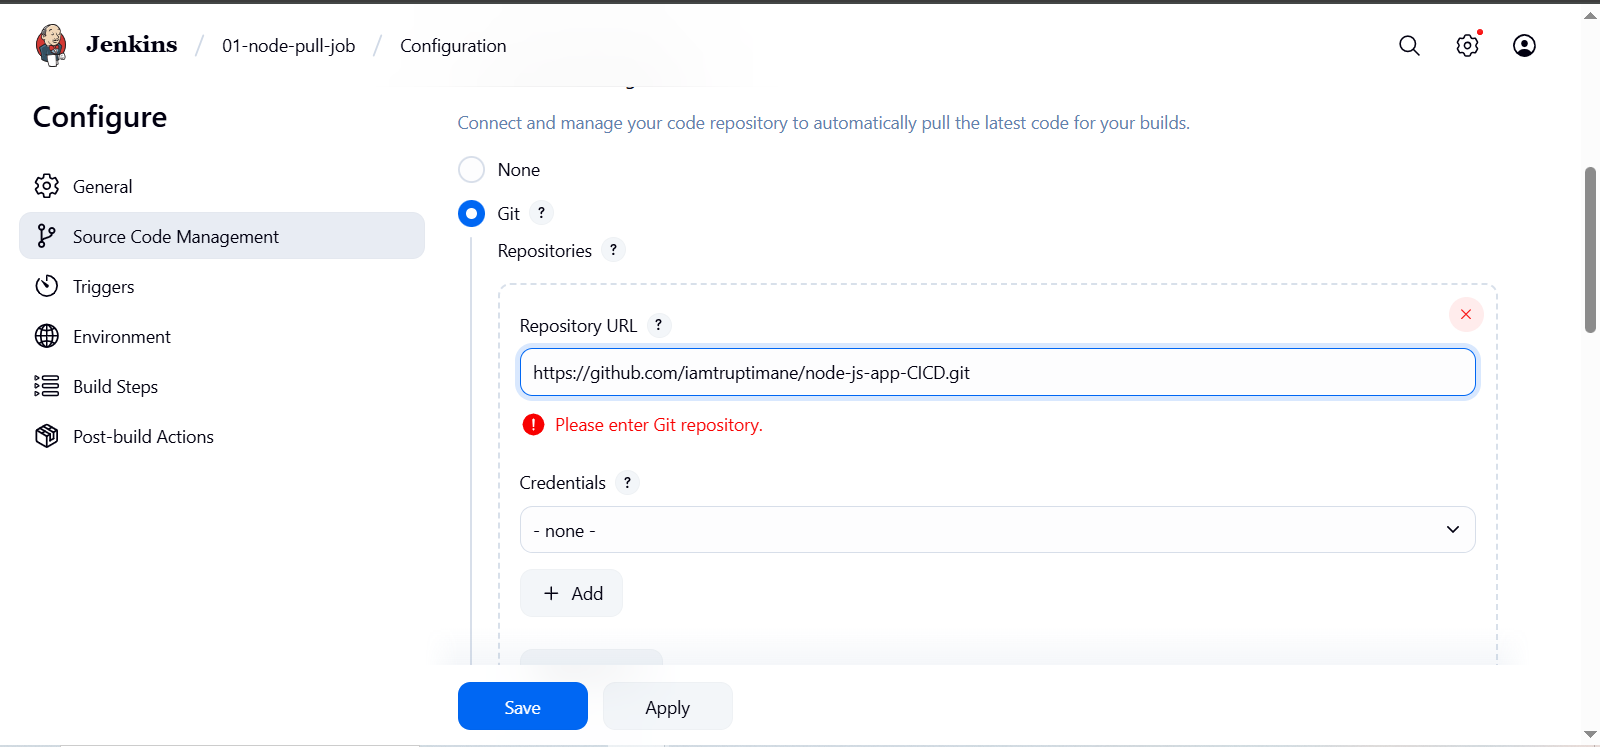
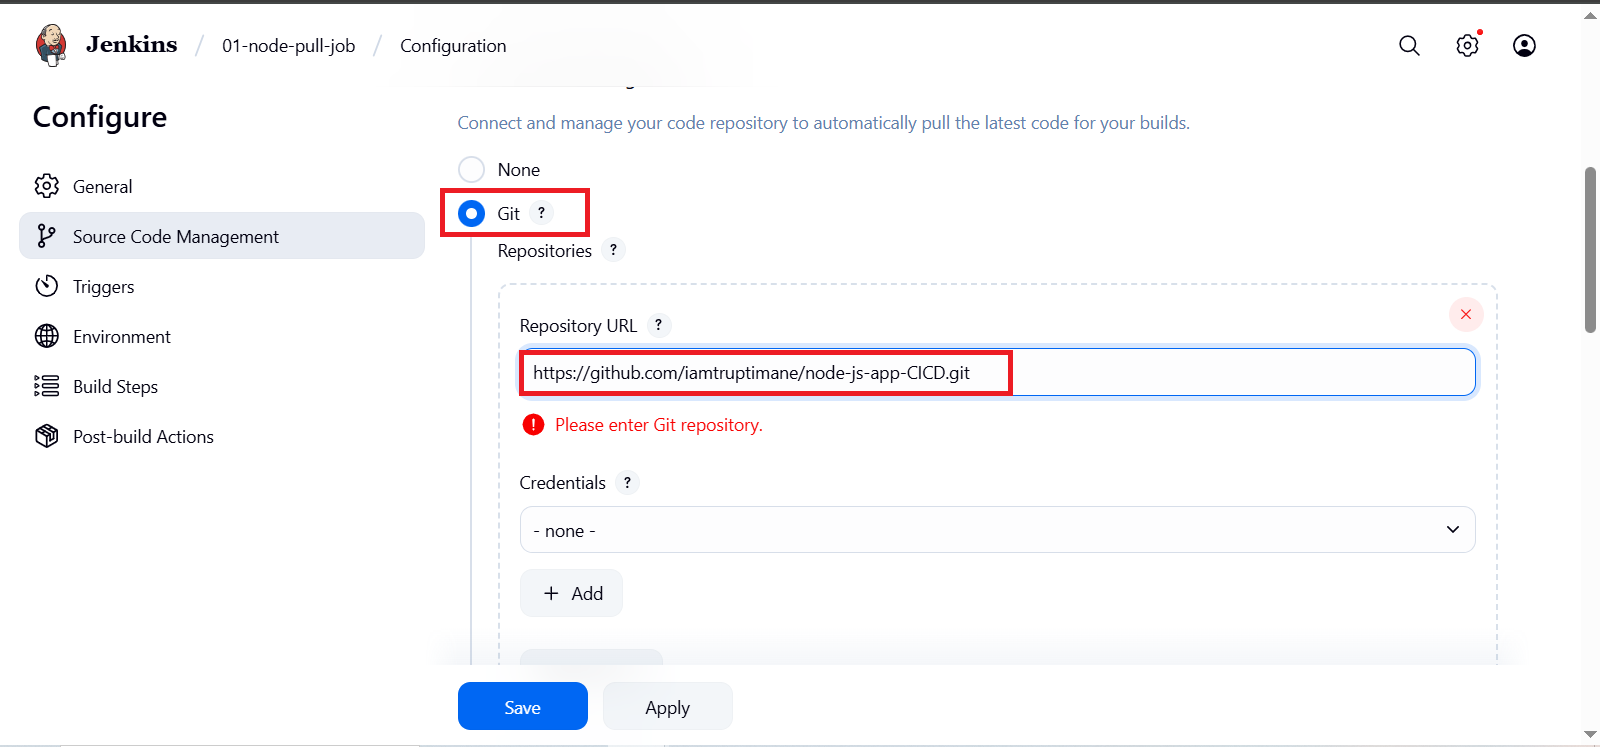
added

diff --git a/README.md b/README.md
@@ -56,7 +56,57 @@ sudo npm install -g pm2
 Verify PM2 installation:
 ```
 pm2 -v
+
 ```
+---
+
+### Setting Up Jenkins Freestyle Projects
+We will create three Jenkins freestyle jobs to automate the deployment pipeline:
+
+01-node-pull-job: Pull latest source code from Git.
+
+02-node-install-job: Install Node.js dependencies (npm install).
+
+![ubuntu](imgs/02-node-install-job-new-item-6.png)
+
+03-node-deploy-job: Deploy/start the Node.js application using PM2.
+
+![ubuntu](imgs/03-node-deploy-job-10.png)
+Project 1: 01-node-pull-job
+
+---
+### Open Jenkins web interface.
+
+Click New Item.
+
+Enter name: 01-node-pull-job.
+
+Choose Freestyle project, click OK.
+
+![ubuntu](imgs/node-pull-job-1.png)
+
+Scroll to Source Code Management, select Git.
+
+![ubuntu](imgs/select-git-repo-2.png)
+
+![ubuntu](imgs/branch-main-3.png)
+
+Enter your Git repository URL, e.g.:
+https://github.com/iamtruptimane/node-js-app-CICD.git
+
+Under Build Triggers, optionally configure how and when to trigger builds.
+
+Scroll to Post-build Actions.
+
+Select Build other projects.
+![ubuntu](imgs/build-other-project-4.png)
+
+Enter 02-node-install-job as the downstream job.
+
+
+![ubuntu](imgs/projects-to-build-5.png)
+
+Click Save.
 
 
 
